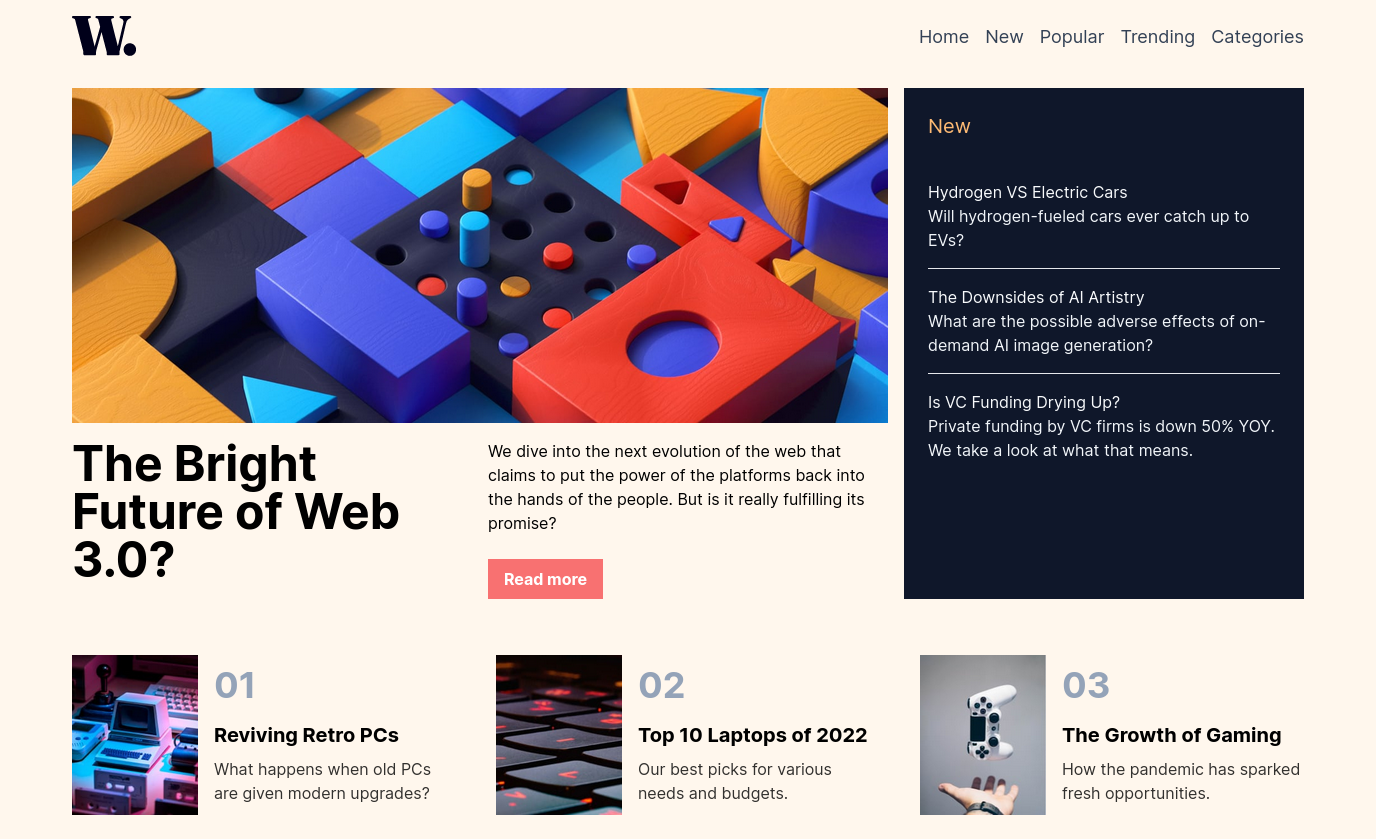
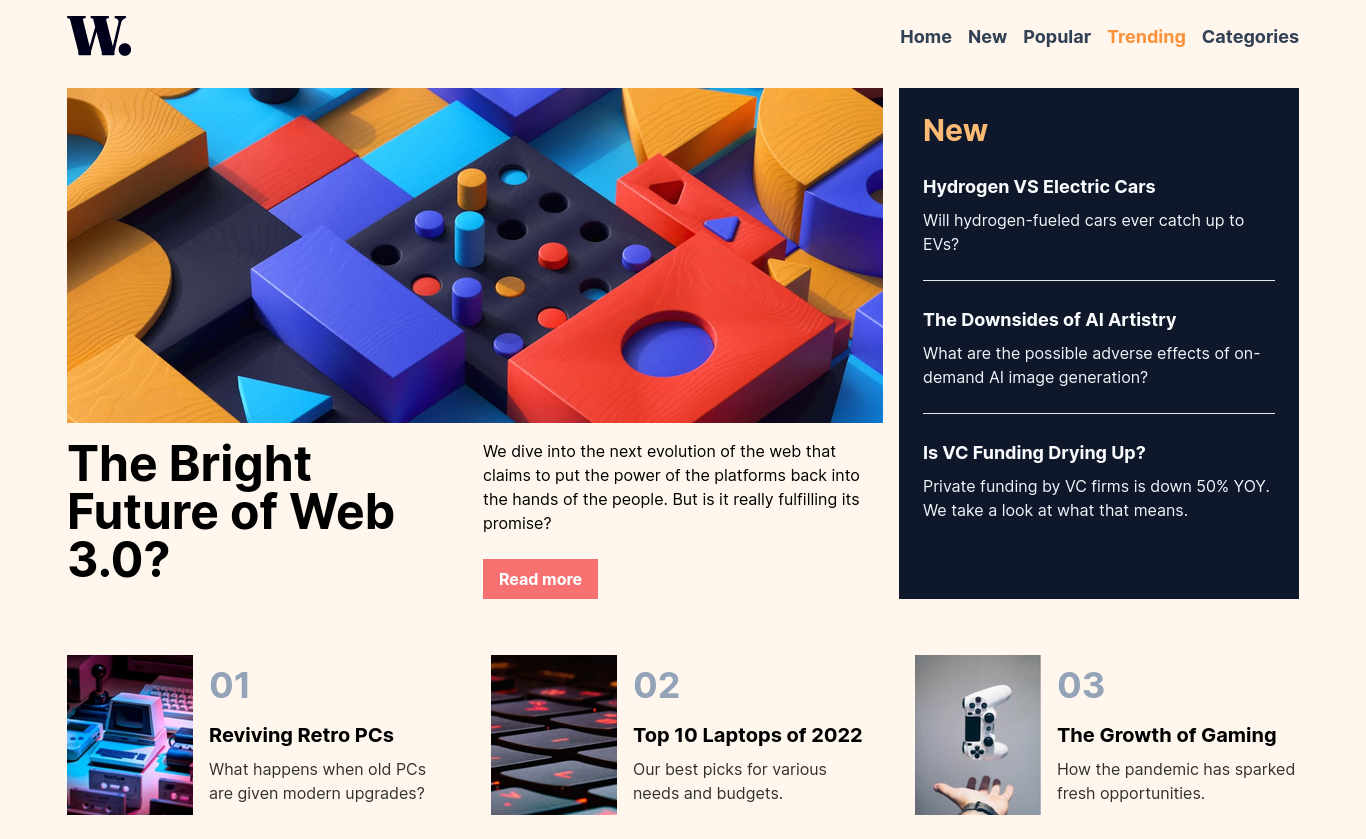
fixed nav and hero

diff --git a/src/components/Hero.jsx b/src/components/Hero.jsx
@@ -40,13 +40,13 @@ function Hero() {
         </div>
 
         <div className="bg-slate-900 p-6">
-          <h2 className="text-xl font-medium text-orange-300">New</h2>
-          <div className="flex flex-col justify-between  divide-y divide-solid pt-6">
+          <h2 className="text-3xl font-bold text-orange-300">New</h2>
+          <div className="flex flex-col justify-between  divide-y divide-solid">
             {newItems.map((e, i) => {
               return (
-                <div className="py-4" key={i}>
-                  <h3 className="text-slate-50">{e.title}</h3>
-                  <p className="text-slate-100">{e.subtitle}</p>
+                <div className="py-6" key={i}>
+                  <h3 className="text-lg font-bold text-slate-50">{e.title}</h3>
+                  <p className="mt-2 text-slate-100">{e.subtitle}</p>
                 </div>
               );
             })}

diff --git a/src/components/Header/Nav.jsx b/src/components/Header/Nav.jsx
@@ -11,7 +11,7 @@ function Nav() {
       <ul className="hidden gap-4 md:flex">
         {navItems.map((e, i) => (
           <li key={i} className="text-slate-700 hover:text-orange-400">
-            <a className="text-lg font-medium" href={`/${e}`}>
+            <a className="text-lg font-bold" href={`/${e}`}>
               {e}
             </a>
           </li>
@@ -25,7 +25,7 @@ function Nav() {
       </button>
       {navState ? (
         <>
-          <div className="fixed top-0 right-0 z-10 h-screen w-9/12 bg-white py-40 px-6 md:hidden">
+          <div className="fixed top-0 right-0 z-10 h-screen w-9/12 bg-white py-40 px-10 md:hidden">
             <button
               className="absolute right-6 top-6"
               onClick={() => setNavState(!navState)}
